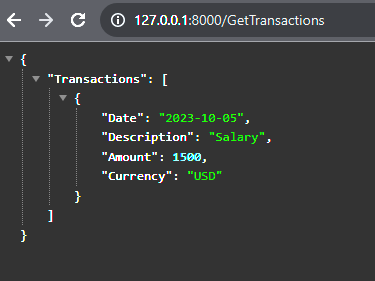
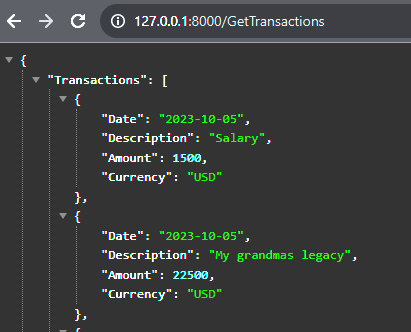
fix

diff --git a/utils/business_logic.py b/utils/business_logic.py
@@ -1,55 +1,29 @@
-import json
-from datetime import datetime
-from pathlib import Path
-from typing import List, Tuple
+from fastapi import HTTPException
 
-from models.models import ProcessedData
-
-DEFAULT_OUTPUT_DIR = Path("utils") / "third_party" / "morti_api" / "json_output"
+from models.models import BankTransactionModel
 
 
-def filter_data(all_data: List[ProcessedData], endpoint: str) -> Tuple[List[str], List[str]]:
-    """
-    Filter fetched data based on the endpoint and specific criteria.
+class BankAccountService:
+    def __init__(self, AccountType: str, CreditLimit: float = 0.0):
+        self.Transactions = []
+        self.Balance = 0.0
+        self.AccountType = AccountType
+        self.CreditLimit = CreditLimit
 
-    :param all_data: A list of ProcessedData objects to be filtered.
-    :param endpoint: The endpoint for which data has been fetched.
-    :return: A tuple containing lists of filtered episodes and locations.
-    """
-    episodes_filtered = []
-    locations_filtered = []
+    async def ProcessTransaction(self, transaction: BankTransactionModel):
+        if transaction.Currency != "USD":
+            transaction.Amount /= 2
 
-    if endpoint == "episode":
-        for data in all_data:
-            raw_data = data.RawData
-            air_date = datetime.strptime(raw_data.get("air_date"), "%B %d, %Y")
-            if 2017 <= air_date.year <= 2021 and len(raw_data.get("characters", [])) > 3:
-                episodes_filtered.append(raw_data.get("name"))
+        NewBalance = self.Balance + transaction.Amount
+        if self.AccountType == "Debit" and NewBalance < 0:
+            raise HTTPException(status_code=400, detail="Insufficient funds")
+        elif self.AccountType == "Credit" and NewBalance < -self.CreditLimit:
+            raise HTTPException(status_code=400, detail="Credit limit exceeded")
 
-    elif endpoint == "location":
-        for data in all_data:
-            raw_data = data.RawData
-            episodes = [int(ep.split("/")[-1]) for ep in raw_data.get("episode", [])]
-            if all(ep % 2 != 0 for ep in episodes):
-                locations_filtered.append(raw_data.get("name"))
-
-    return episodes_filtered, locations_filtered
+        self.Transactions.append(transaction.dict())
+        self.Balance = NewBalance
+        return {"Balance": self.Balance}
 
 
-def write_json_files(endpoint: str, all_data: List[ProcessedData], output_dir: Path = DEFAULT_OUTPUT_DIR):
-    """
-    Write the fetched data to JSON files in the specified output directory.
+account = BankAccountService(AccountType="Debit")
 
-    :param endpoint: The endpoint for which data has been fetched.
-    :param all_data: A list of ProcessedData objects to be written to JSON files.
-    :param output_dir: The directory where the JSON files will be created.
-    """
-
-    output_dir.mkdir(parents=True, exist_ok=True)
-
-    timestamp = datetime.now().strftime("%Y%m%d_%H%M%S")
-    file_path = output_dir / f"{endpoint}_{timestamp}.json"
-
-    output_data = [data.dict() for data in all_data]
-    with file_path.open('w') as f:
-        json.dump(output_data, f, indent=2)

diff --git a/main.py b/main.py
@@ -1,28 +1,37 @@
-import asyncio
-from typing import List, Tuple
-
 from fastapi import FastAPI
+import datetime
 
-from models.models import FilteredData
-from utils.third_party.morti_api.api_client import RickAndMortyApiClient
-from utils.business_logic import filter_data, write_json_files
+from models.models import BankTransactionModel
+from utils.business_logic import account
 
-app = FastAPI(debug=True)
+app = FastAPI()
 
 
-@app.get("/", response_model=FilteredData)
-async def read_morti_api_content():
-    all_data = await asyncio.gather(
-        *(RickAndMortyApiClient.fetch_data(endpoint) for endpoint in RickAndMortyApiClient.ENDPOINTS))
+@app.post("/ProcessTransaction/")
+async def CreateTransaction(transaction: BankTransactionModel):
+    return await account.ProcessTransaction(transaction)
 
-    combined_filtered_data = FilteredData(episodes_filtered=[], locations_filtered=[])
 
-    for i, endpoint_data in enumerate(all_data):
-        write_json_files(RickAndMortyApiClient.ENDPOINTS[i], endpoint_data)
+@app.get("/RetrieveBalance/")
+async def RetrieveBalance(date: str = None):
+    return {"Balance": account.Balance}
 
-        episodes_filtered, locations_filtered = filter_data(endpoint_data, RickAndMortyApiClient.ENDPOINTS[i])
 
-        combined_filtered_data.episodes_filtered.extend(episodes_filtered)
-        combined_filtered_data.locations_filtered.extend(locations_filtered)
+@app.get("/GetTransactions")
+async def GetTransactions():
+    QueriedTransactions = [
+        trans for trans in account.Transactions
+    ]
+    return {"Transactions": QueriedTransactions}
 
-    return combined_filtered_data
+
+@app.get("/QueryTransactions/")
+async def QueryTransactions(startDate: str, endDate: str):
+    StartDateObj = datetime.datetime.strptime(startDate, "%Y-%m-%d")
+    EndDateObj = datetime.datetime.strptime(endDate, "%Y-%m-%d")
+
+    QueriedTransactions = [
+        trans for trans in account.Transactions
+        if StartDateObj <= datetime.datetime.strptime(trans["Date"], "%Y-%m-%d") <= EndDateObj
+    ]
+    return {"Transactions": QueriedTransactions}

diff --git a/models/models.py b/models/models.py
@@ -1,13 +1,8 @@
 from pydantic import BaseModel
-from typing import List, Dict, Any
 
 
-class ProcessedData(BaseModel):
-    Id: str
-    Metadata: str
-    RawData: Dict[str, Any]
-
-
-class FilteredData(BaseModel):
-    episodes_filtered: List[Any]
-    locations_filtered: List[Any]
+class BankTransactionModel(BaseModel):
+    Date: str
+    Description: str
+    Amount: float
+    Currency: str

diff --git a/README.md b/README.md
@@ -1,30 +1,40 @@
-# RickAndMorty API Task
+## Prerequisites 
+Installation packages:
+```shell
+pip install -r requirements.txt
+```
 
-### Installing
+## Run the Bank Application
 
-1 Install the required packages:
-    ```sh
-    pip install -r requirements.txt
-    ```
+```sh
+uvicorn main:app --reload
+```
 
-2. Run the FastAPI application:
-    ```sh
-    uvicorn main:app --reload
-    ```
+## API Endpoints
 
-    The application will be available at `http://127.0.0.1:8000`.
+Access http://127.0.0.1:8000 to hit endpoints
 
-## Usage
-
-Once the FastAPI application is running, you can visit the root URL to fetch, process, and view the filtered data from the RickAndMorty API.
-
-To view the filtered data in the browser, visit [http://127.0.0.1:8000](http://127.0.0.1:8000).
+### `POST /ProcessTransaction`
+Submit a new transaction and update account balance. 
+Required fields:
+- `Date`: (string) Transaction date
+- `Description`: (string) Transaction description
+- `Amount`: (float) Transaction amount, use negative for outgoing transactions
+- `Currency`: (string) Currency code (in our case - USD)
 
 
-The application will generate three JSON files in the project directory each containing the processed data from the RickAndMorty API.
+### `GET /GetTransactions`
+Retrieve the list of all provided transactions.
 
-- characters.json
-- locations.json
-- episodes.json
+it should look like this
 
-location of files app/utils/third_party/morti_api/json_output
+![Transaction Screenshot](tran_1.png)
+
+### `GET /RetrieveBalance`
+Retrieve the current account balance.
+
+### `GET /QueryTransactions`
+Fetch transactions within a specified date range. 
+Parameters:
+- `startDate`: (string) Start date of the range
+- `endDate`: (string) End date of the range
